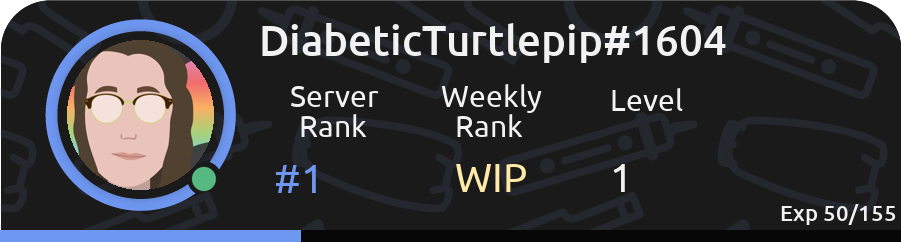
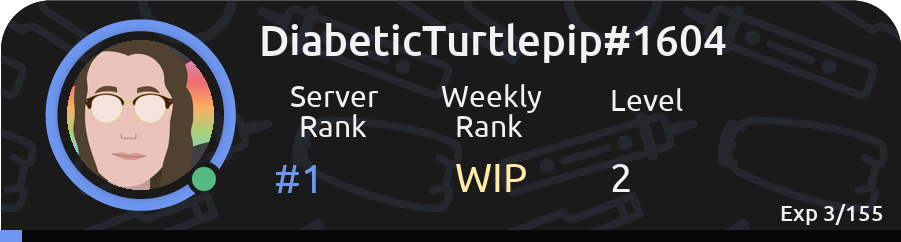
update generator

Changed region(s): [[0.0, 0.9256, 0.3418, 1.0], [0.9012, 0.8388, 0.9945, 0.9256], [0.6837, 0.6653, 0.7148, 0.8099]]

diff --git a/testing.py b/testing.py
@@ -10,9 +10,9 @@ disrank = generator.Generator()
 args = {
 			'bg_image' : '', # Background image link (Optional)
 			'profile_image' : 'https://images-ext-1.discordapp.net/external/Vn2YDNmin4oNdyO91g9N1ss5i_VyZoCwP1YyesAlEkA/%3Fsize%3D1024/https/cdn.discordapp.com/avatars/98802238364876800/a8730866ce43c5e5988064977b4c1849.png', # User profile picture link
-			'level' : 1, # User current level 
+			'level' : 2, # User current level 
 			'current_xp' : 10, # Current level minimum xp 
-			'user_xp' : 50, # User current xp
+			'user_xp' : 3, # User current xp
 			'next_xp' : 155, # xp required for next level
 			'user_position' : 1, # User position in leaderboard
 			'user_name' : "DiabeticTurtlepip#1604", # user name with descriminator 

diff --git a/disrank/generator.py b/disrank/generator.py
@@ -116,7 +116,7 @@ class Generator:
         xphave = user_xp - current_xp
 
         current_percentage = (xphave / xpneed) * 100
-        length_of_bar = (current_percentage * 8) + 80 
+        length_of_bar = (current_percentage * 5*2)+50+20 
         
         blank_draw.rectangle((-1, 230, length_of_bar, 900), fill=DARK)
         
